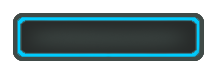
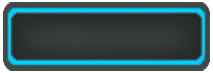
fixed compendium buttons, text in sidebar

diff --git a/scifiui.css b/scifiui.css
@@ -524,13 +524,16 @@ i.fa-caret-down::before {
     background-repeat: no-repeat !important;
     width: 100%;
     height: 35px !important;
-    padding-top: 5px;
-    padding-bottom: 5px;
+    padding: 5px 15px;
+    /* padding-bottom: 15px; */
     color: white;
     font-size: 1em;
-    padding-left: 35px !important;
+    /* padding-left: 15px !important; */
     margin-right: 0px !important;
     text-shadow: 2px 2px black;
+    flex-wrap:nowrap;
+    align-items:center;
+    justify-content:space-between
 }
 
 .sidebar-tab .directory-list .directory.item h3 {
@@ -561,6 +564,13 @@ li.folder>.folder-header {
     border-left: 2px solid #585858 !important;
 }
 
+.compendium-sidebar .directory-list .subdirectory h3.entry-name.compendium-name {
+    margin-bottom: 10px;
+    font-size: 14px;
+    height:  25px !important;
+}
+
+
 li.folder>.folder-header .create-folder {
     /*flex: 0 0 35px;*/
     text-align: right;
@@ -587,18 +597,23 @@ li.folder>.folder-header .create-entity {
 #compendium h3 {
     text-align: left;
     position: relative;
-    height: 35px !important;
-    top: 7px;
-    padding-top: 10px;
-    padding-left: 45px;
-    /*background-image: url("/modules/scifi-ui/ui/img/buttonlight3.webp") !important;*/
+    height: auto;
+    top: 0px;
+    padding: 2px 20px;
+    /* background-image: url("/modules/scifi-ui/ui/img/buttonlight3.webp") !important; */
     background-position-x: 0%;
     background-size: 100% 100% !important;
     background-position-y: 0%;
     background-position: initial;
-
     color: #eeede0;
     text-shadow: 2px 2px 4px #000000;
+}
+
+#compendium .directory-list .directory-item.folder .subdirectory .compendium.directory-item h3.entry-name.compendium-name {
+    margin-bottom: 5px;
+    font-size: .875rem;
+    display: flex;
+    align-items: center;
 }
 
 #compendium ol.compendium-list {
@@ -730,7 +745,10 @@ margin-top: 7px;
 }
 
 
-
+#compendium h3.noborder {
+    padding-top: 0;
+    padding-left: 0
+}
 
 
 /* #endregion */
